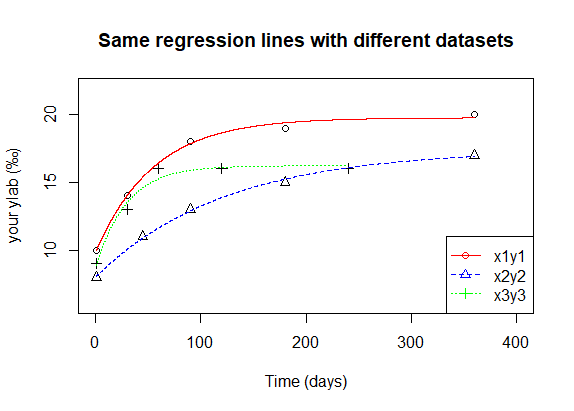
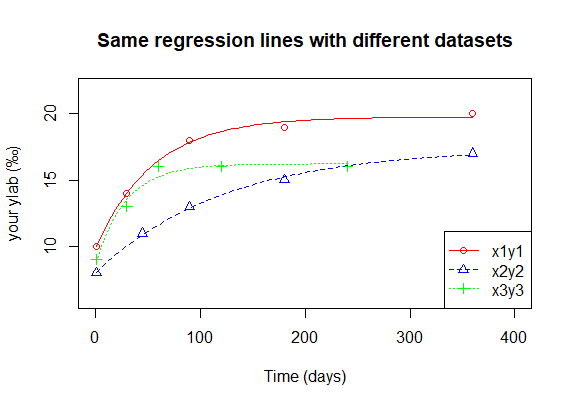
update README file

diff --git a/README.md b/README.md
@@ -58,7 +58,7 @@ version 1.0.1 of "basicTrendline" package, figure for exp3P:
 	#set plot=FALSE in the following codes
 	trendline(x,y, plot=FALSE, model="power3P", summary=TRUE, eDigit=3, ePos="bottom",linecolor="black") 
 
-<img src="docs/images/power.png" width="490"/>
+<img src="docs/images/case2.png" width="490"/>
 	
 **[case 3:] chanage other models, using the same function "trendline()"** 
 
@@ -67,7 +67,7 @@ version 1.0.1 of "basicTrendline" package, figure for exp3P:
 	# change model to "log2P"
 	trendline(x,y, model="log2P", summary=TRUE, eDigit=3, ePos="bottom",linecolor="black") 
 
-<img src="docs/images/log2P.png" width="490"/>
+<img src="docs/images/case3.png" width="490"/>
 
 “model” can be one of c('lin2P','line3P','log2P','exp3P','power3P')
 	
@@ -98,7 +98,7 @@ version 1.0.1 of "basicTrendline" package, figure for exp3P:
 
 	legend("bottomright",c("line2P","log2P","exp3P"), lty=c(1,2,3),col=c("red","blue","black"))
 
-<img src="docs/images/Multilines.png" width="490"/>
+<img src="docs/images/case4.png" width="490"/>
 
 
 **[case 5:] draw trendlines by the same model (e.g. "exp3P") with different datasets:**
@@ -115,10 +115,10 @@ import some datasets:
 
 Plot (or points) and add trendlines:
 
-	plot(x1,y1,,pch=1, xlim = c(0,400),ylim = c(6,22),main="Same regression lines with different datasets",xlab = "Time (days)", ylab = "your ylab (‰)")
+	plot(x1,y1,,pch=1,col="red",xlim = c(0,400),ylim = c(6,22),main="Same regression lines with different datasets",xlab = "Time (days)", ylab = "your ylab (‰)")
 
-	points(x2,y2,pch=2)  # different type for points
-	points(x3,y3,pch=3)
+	points(x2,y2,pch=2,col="blue")  # pch values refer to different type for points
+	points(x3,y3,pch=3,col="green")
 
 	library(basicTrendline)
 
